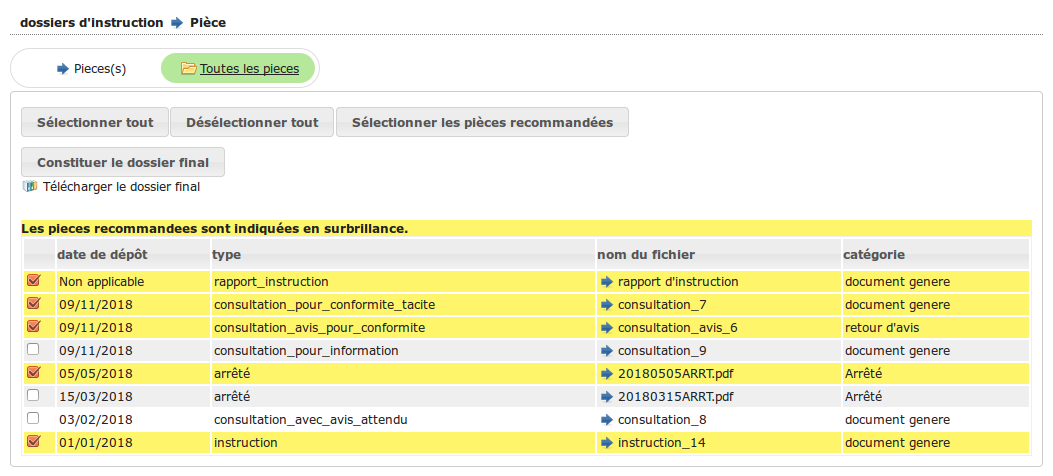
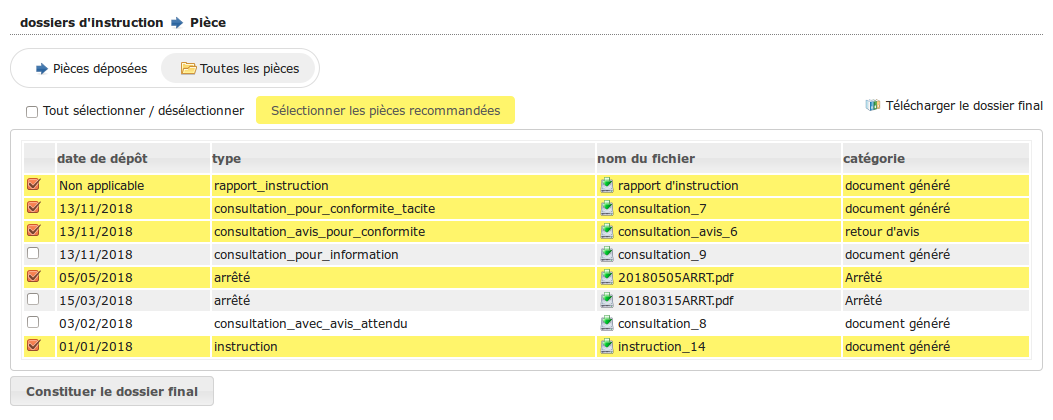
* Amélioration constitution du dossier final

diff --git a/source/manuel_utilisateur/instruction.rst b/source/manuel_utilisateur/instruction.rst
@@ -488,23 +488,15 @@ L'ensemble de toutes les pièces s'affiche, qu'elles aient été jointes ou gén
 
 .. image:: instruction_document_numerise_dossier_final_form.png
 
-Les pièces recommandées sont en surbrillance comme l'indique la légende, les critères sont les suivants :
+Les pièces recommandées sont indiquées en surbrillance. 
+Une pièce est identifée comme *recommandée* si elle respecte une des règles suivantes :
 
-* les pièces du dépôt le plus récent, pour chaque nature de pièce ;
-* les PDF de retour de rendu d'avis non tacite (à l'exception des rendu "pour information") ;
-* les demandes d'avis avec rendu tacite.
-
-
-Les pièces recommandées sont indiquées en surbrillance comme précisé par la légende :
-
-* concernant les documents déposés via l'onglet **Pièce(s)** du dossier d'instruction, elles correspondent aux pièces du dépôt le plus récent pour chaque nature de pièce ;
-* concernant les document générés (hors documents de consultation), pour chaque nature de pièce il s'agit de la plus récente ;
-* concernant les documents de consultation, sont recommandé(e)s :
+* tous les documents déposés via l'onglet **Pièces déposées** sont recommandés. Dans le cas où il en existe plusieurs du même type, seul le plus récent est recommandé ;
+* à l'exception des consultations, tous les documents générés lors de l'instruction du dossier sont recommandés. Dans le cas où il en existe plusieurs du même type, seul le plus récent est recommandé ;
+* pour les documents issus des consultations, les pièces des consultations *pour information* ne sont jamais recommandées. Sont recommandés :
 
     * les pièces jointes aux retours de consultations non tacites ;
     * les documents générés lors d'une demande de consultation tacite.
-
-Cependant, les pièces des consultations "pour information" ne sont jamais recommandées.
 
 .. note::
 
@@ -512,14 +504,18 @@ Cependant, les pièces des consultations "pour information" ne sont jamais recom
 
 Pour chacune des pièces listées, cliquer sur le nom du fichier permet d'en avoir un aperçu direct.
 
-Pour sélectionner des pièces pour le dossier final, il suffit de les cocher puis de cliquer sur le bouton **Constituer le dossier final**.
+Pour sélectionner les pièces qui vont constituer dossier final, il suffit de les cocher.
 
-D'autres boutons sont également disponibles :
+Des boutons d'action par lot sont disponibles :
 
-* **Cocher les pièces recommandées** coche toutes les pièces recommandées ;
-* **Cocher toutes les pièces** coche toutes les pièces ;
-* **RàZ** décoche toutes les pièces ;
-* **Télécharger toutes les pièces du dossier final** ce bouton apparait si le dossier final a déjà été constitué au moins une fois et permet de télécharger une archive contenant les pièces du dernier dossier final constitué.
+* **Sélectionner les pièces recommandées** ;
+* **Tout sélectionner / désélectionner**.
+
+Ces actions influent uniquement sur la sélection des pièces.
+
+Pour enregistrer la sélection, cliquer sur le bouton **Constituer le dossier final**.
+
+Il est possible de télécharger l'intégralité des pièces du dossier final sous la forme d'une archive via le bouton **Télécharger le dossier final**. Ce bouton apparait si le dossier final a déjà été constitué au moins une fois.
 
 ========================
 Événements d'instruction

diff --git a/source/manuel_utilisateur/ergonomie/profils/instructeur_polyvalent_commune.rst b/source/manuel_utilisateur/ergonomie/profils/instructeur_polyvalent_commune.rst
@@ -189,6 +189,7 @@ peuvent effectuer des action sur les dossiers de leur commune qui ne sont pas af
     - Supprimer une pièce.
     - Télécharger le fichier d'une pièce.
     - Télécharger toutes les pièces du dossier d'instruction.
+    - Constituer le dossier final.
 
   - *DA* :
 

diff --git a/source/manuel_utilisateur/ergonomie/profils/instructeur.rst b/source/manuel_utilisateur/ergonomie/profils/instructeur.rst
@@ -267,6 +267,7 @@ Action(s) disponible(s) par onglet :
     - Accéder à la fiche de visualisation d'une pièce.
     - Télécharger le fichier d'une pièce.
     - Télécharger toutes les pièces du dossier d'instruction.
+    - Constituer le dossier final.
 
   - *DA* :
 
